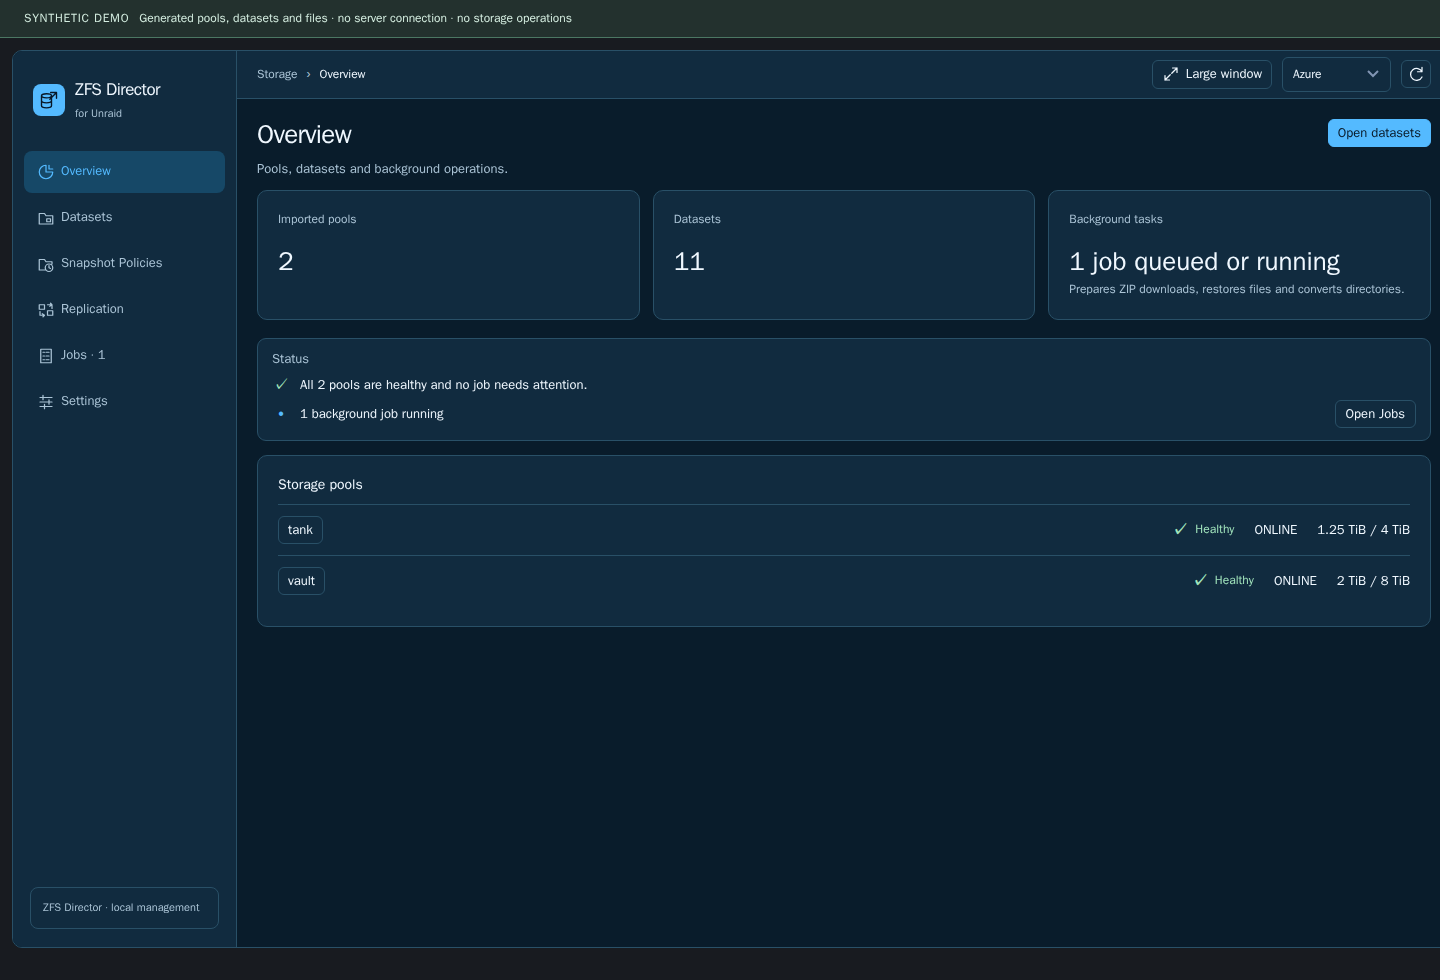
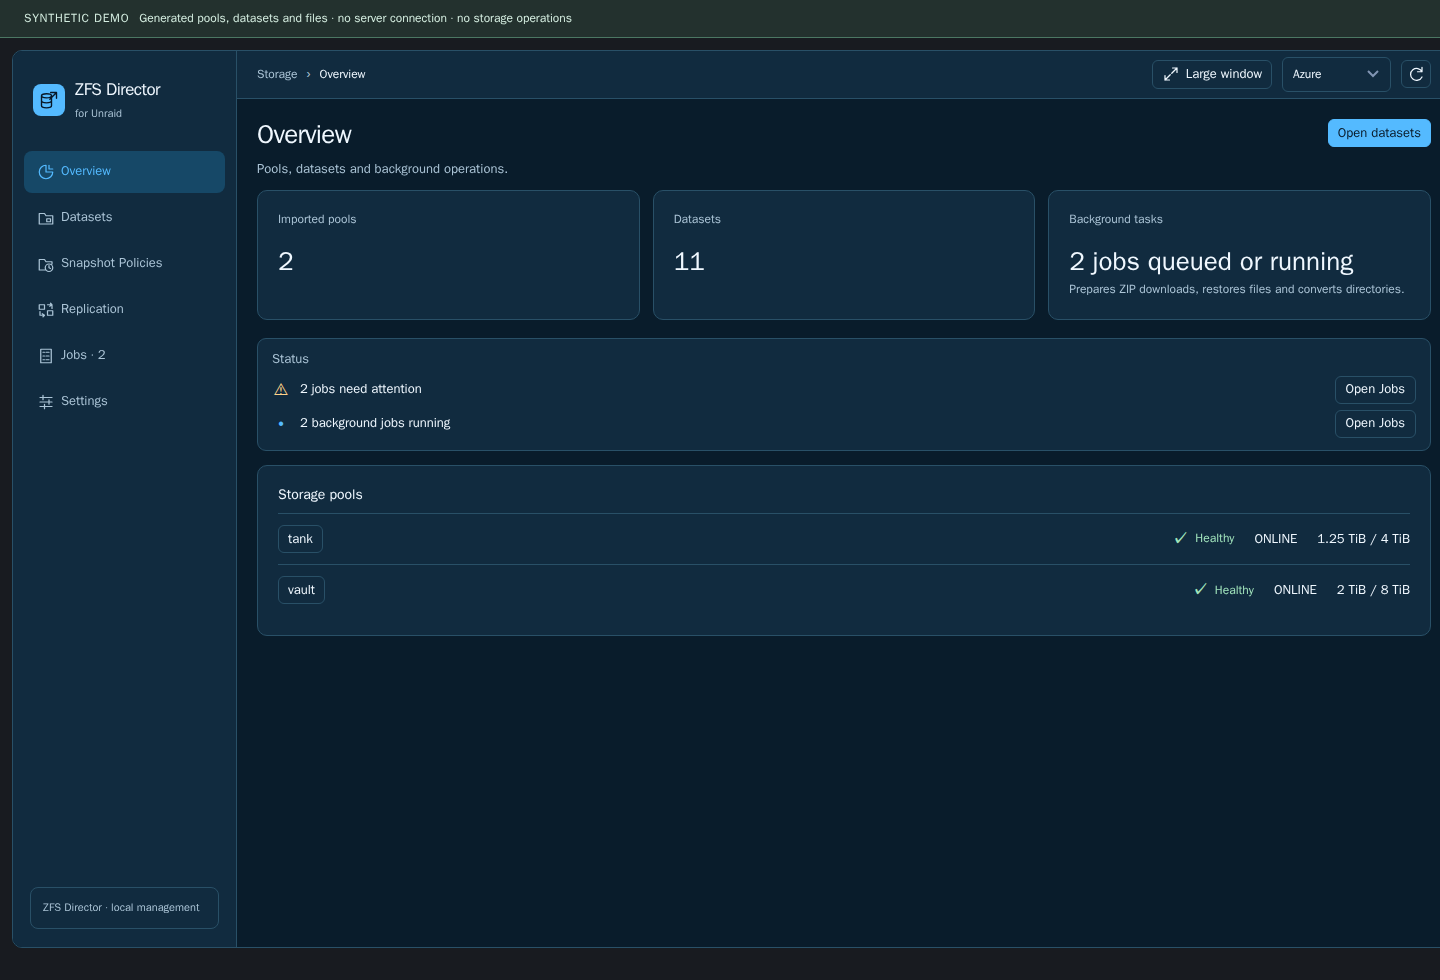
ux: Jobs cards name the process, its source and destination, how it started and how it ended (JOBS-003)
Titles read Replication, Snapshot policy, Conversion, Restore, ZIP, Delete dataset, Delete directory or Refused with the source and, where there is one, the destination. Replication and policy cards get a second line with the definition name and scheduled or manual run, and their status is in words (Running: sending data, Failed, Interrupted: check the destination). Unreadable journals are labelled as such. The error line no longer starts with Error. The Jobs demo data and screenshots follow the new scope and cards.

diff --git a/src/frontend/ZFSMWorkspace.js b/src/frontend/ZFSMWorkspace.js
@@ -641,6 +641,37 @@ function zfsmCreateWorkspace(options) {
         catch(error){if(scope!==JSON.stringify(jobRequestFields()))jobsPending=true;else jobsError='Job status unavailable. Retained results may be stale: '+error.message;}
         finally{jobsBusy=false;if(!stopped){if(!jobsError)renderOperation(jobs.operation);const running=Number(jobs.counts?.active)||0;sectionButtons.get('jobs').querySelector('.zfsm-nav-label').textContent='Jobs'+(running>0?' · '+running:'');renderJobs();if(section==='overview')renderSection();if(activeForm&&['cancelconversion','resumeconversion','cancelrestore'].includes(activeForm.action))forms.render(activeForm.host,activeForm.action,activeForm.context);explorer?.updateJobs?.(jobs.jobs);if(jobsPending){jobsPending=false;loadJobs();}else jobsTimer=setTimeout(loadJobs,2500);}}
     }
+    // JOBS-003: a card says what the process was, where it went and how it ended, in words.
+    const protectionStages={queued:'Waiting',inspecting:'Checking',transferring:'Sending data',finished:'Finished',cancelled:'Cancelled'};
+    function protectionStage(job){return protectionStages[job.stage]||String(job.stage||'').replace(/_/g,' ');}
+    function protectionStatusText(job){
+        if(job.diagnostics?.issue)return 'Needs inspection: the job record cannot be read';
+        if(job.state==='queued')return 'Waiting';
+        if(job.state==='running'){const stage=protectionStage(job).toLowerCase();return stage?'Running: '+stage:'Running';}
+        if(job.state==='completed')return '✓ Done';
+        if(job.state==='failed')return 'Failed';
+        if(job.state==='cancelled')return 'Cancelled';
+        if(job.state==='recovery_required')return 'Interrupted: check the '+(job.type==='replication'?'destination':'snapshots');
+        return String(job.state);
+    }
+    function jobTitleNode(job,requestOwned,requestLabel){
+        const title=node('strong');
+        if(requestOwned)title.append(requestLabel+' · '+(job.source||job.id)+(job.definition_name?' · '+job.definition_name:''));
+        else{
+            let kind,subject=job.source||job.id;
+            if(job.diagnostics?.issue)kind='Unreadable job';
+            else if(job.schema===4){kind=job.type==='replication'?'Replication':job.type==='policy'?'Snapshot policy':'Protection job';if(job.type==='replication'&&job.destination)subject=job.source+' → '+job.destination;}
+            else if(job.schema===5)kind='Refused: conversion';
+            else if(job.schema===6)kind=job.rejected?'Refused: deletion':job.kind==='directory'?'Delete directory':'Delete dataset';
+            else if(job.type==='restore'){kind='Restore';subject=(job.snapshot||job.source||job.id)+(job.target?' → '+job.target:'');}
+            else if(job.type==='archive'){kind='ZIP';subject=job.snapshot||job.source||job.id;}
+            else if(job.type==='conversion'){kind='Conversion';if(job.dataset&&job.source)subject=job.source+' → '+job.dataset;}
+            else kind='Job';
+            title.append(kind+' · '+subject);
+        }
+        if(job.schema===4){const line=[job.definition_name,job.trigger==='schedule'?'scheduled':job.trigger==='manual'?'manual run':null].filter(Boolean).join(' · ');if(line)title.append(node('small',line,'zfsm-job-subtitle'));}
+        return title;
+    }
     function renderJobs(){
         if(!jobsHost)return;
         
@@ -672,7 +703,7 @@ function zfsmCreateWorkspace(options) {
             const warning=requestOwned&&job.result?.severity==='warning'?{title:'Completed with warnings',summary:job.result.summary}:typeof zfsmProtectionJobWarning==='function'?zfsmProtectionJobWarning(job):null;
             const copiedPhase=job.type==='conversion'&&job.state==='running'&&!jobsError?(job.stage==='copying'&&job.progress?.stage==='verifying'?'Verifying files':({copy_verified:'Copy verified',claiming:'Retaining original',source_retained:'Verifying retained original',reserving:'Preparing mount location',reserved:'Mount location ready',mountpoint_pending:'Updating dataset mountpoint',publishing:'Mounting dataset',published:'Checking mounted dataset'}[job.stage]||'')):'';
             const requestLabel=job.command==='protectioncontrol'&&['enable','disable','remove'].includes(job.definition_action)?({enable:'Enable',disable:'Disable',remove:'Delete'})[job.definition_action]+' '+(job.category==='policy'?'snapshot policy':'replication task'):String(job.label||'Operation');
-            const isRestore=job.type==='restore',isArchive=job.type==='archive',isDeletion=job.type==='deletion',deletionStage=({planned:'Waiting to start',validating:'Checking target and protection',scanning:'Counting selected objects',deleting:job.kind==='directory'?'Deleting directory contents':'Deleting reviewed ZFS objects',verifying:'Verifying deletion',completed:'Completed',interrupted:'Inspection required',preflight_rejected:'Request refused',preflight_failed:'Safety check failed'})[(job.state==='running'?job.progress?.stage:null)||job.stage]||job.stage,row=node('div',undefined,'zfsm-job');row.dataset.jobId=job.id;row.append(node('strong',(requestOwned?requestLabel+' · ':isRestore?'Restore · ':isArchive?'ZIP · ':isDeletion?(job.kind==='directory'?'Delete directory · ':'Delete dataset · '):'')+(job.source||job.id)+(job.definition_name?' · '+job.definition_name:'')),node('div',warning?'⚠ '+warning.title:(job.state==='completed'?'✓ ':'')+(isDeletion||requestOwned?({queued:'Queued',running:'In progress',completed:'Completed',failed:'Failed',recovery_required:'Inspection required',cancelled:'Cancelled'})[job.state]:String(job.state))+((isDeletion&&job.state==='completed'||requestOwned&&!['queued','running'].includes(job.state)||(!copiedPhase&&!isDeletion&&!requestOwned&&String(job.stage).toLowerCase()===String(job.state).toLowerCase()))?'':' · '+(copiedPhase||(isDeletion?deletionStage:requestOwned?requestStage:String(job.stage)))),job.state==='completed'&&!warning?'zfsm-success':'zfsm-job-status'));
+            const isRestore=job.type==='restore',isArchive=job.type==='archive',isDeletion=job.type==='deletion',deletionStage=({planned:'Waiting to start',validating:'Checking target and protection',scanning:'Counting selected objects',deleting:job.kind==='directory'?'Deleting directory contents':'Deleting reviewed ZFS objects',verifying:'Verifying deletion',completed:'Completed',interrupted:'Inspection required',preflight_rejected:'Request refused',preflight_failed:'Safety check failed'})[(job.state==='running'?job.progress?.stage:null)||job.stage]||job.stage,row=node('div',undefined,'zfsm-job');row.dataset.jobId=job.id;row.append(jobTitleNode(job,requestOwned,requestLabel),node('div',warning?'⚠ '+warning.title:job.schema===4?protectionStatusText(job):(job.state==='completed'?'✓ ':'')+(isDeletion||requestOwned?({queued:'Queued',running:'In progress',completed:'Completed',failed:'Failed',recovery_required:'Inspection required',cancelled:'Cancelled'})[job.state]:String(job.state))+((isDeletion&&job.state==='completed'||requestOwned&&!['queued','running'].includes(job.state)||(!copiedPhase&&!isDeletion&&!requestOwned&&String(job.stage).toLowerCase()===String(job.state).toLowerCase()))?'':' · '+(copiedPhase||(isDeletion?deletionStage:requestOwned?requestStage:String(job.stage)))),job.state==='completed'&&!warning?'zfsm-success':'zfsm-job-status'));
             row.lastElementChild.setAttribute('role','status');row.lastElementChild.setAttribute('aria-label','Job '+job.id+' status');
             if(warning)row.lastElementChild.dataset.severity='warning';
             if(job.created)row.append(node('p','Queued: '+date(job.created),'zfsm-muted'));
@@ -687,10 +718,10 @@ function zfsmCreateWorkspace(options) {
                 if(job.result?.summary){const result=node('p',job.result.summary,'zfsm-notice');result.dataset.deletionResult='';result.setAttribute('role','status');row.append(result);}
             }else if(job.progress||copiedPhase){const progress=node('progress');progress.max=100;const measured=typeof job.progress?.percent==='number'&&Number.isFinite(job.progress.percent);if(copiedPhase||measured)progress.value=copiedPhase?100:Math.max(0,Math.min(100,job.progress.percent));progress.setAttribute('aria-label',isRestore?'Restore progress':isArchive?'ZIP progress':job.type==='download'?'Download progress':requestOwned?'Operation progress':job.type==='replication'?'Replication progress':job.type==='policy'?'Snapshot policy progress':'Conversion progress');if(copiedPhase)progress.setAttribute('aria-valuetext','Copying 100%; '+copiedPhase+'. Conversion is not finished.');
                 const detail=isRestore||isArchive||job.type==='download'?bytes(job.progress?.bytes)+' / '+bytes(job.bytes??job.progress?.total)+(job.progress?.current?' · '+job.progress.current:''):[job.progress?.rate,job.progress?.remaining].filter(value=>typeof value==='string'&&value.trim()).map(value=>value.trim()).join(' · ');
-                row.append(progress,node('span',copiedPhase?'Copying: 100% · '+copiedPhase+'…':[measured?progress.value+'%':(requestOwned?requestStage:String(job.stage))+'…',detail].filter(Boolean).join(' · '),'zfsm-muted'));}
-            else if(['queued','running'].includes(job.state)){const progress=node('progress');progress.setAttribute('aria-label',isRestore?'Restore progress':isArchive?'ZIP progress':requestOwned?'Operation progress':job.type==='replication'?'Replication progress':job.type==='policy'?'Snapshot policy progress':'Conversion progress');row.append(progress,node('span',job.state==='queued'?'Waiting to start…':'Working · '+(requestOwned?requestStage:job.stage)+' · percentage unavailable','zfsm-muted'));}
+                row.append(progress,node('span',copiedPhase?'Copying: 100% · '+copiedPhase+'…':[measured?progress.value+'%':(requestOwned?requestStage:job.schema===4?protectionStage(job):String(job.stage))+'…',detail].filter(Boolean).join(' · '),'zfsm-muted'));}
+            else if(['queued','running'].includes(job.state)){const progress=node('progress');progress.setAttribute('aria-label',isRestore?'Restore progress':isArchive?'ZIP progress':requestOwned?'Operation progress':job.type==='replication'?'Replication progress':job.type==='policy'?'Snapshot policy progress':'Conversion progress');row.append(progress,...(job.schema===4&&job.state==='running'?[]:[node('span',job.state==='queued'?'Waiting to start…':'Working · '+(requestOwned?requestStage:job.stage)+' · percentage unavailable','zfsm-muted')]));}
             if(requestOwned&&job.result?.summary){const result=node('p',job.result.summary,'zfsm-notice');result.dataset.operationResult='';result.setAttribute('role','status');row.append(result);}
-            for(const [key,label] of [['error','Error'],['target','Target'],...(isRestore&&job.state!=='completed'?[['staging','Copied files retained at']]:[])])if(job[key]){const message=node('p',label+': '+job[key],key==='error'?'zfsm-error':'zfsm-muted');if(key==='error')message.setAttribute('role','alert');row.append(message);}
+            for(const [key,label] of [['error','Error'],['target','Target'],...(isRestore&&job.state!=='completed'?[['staging','Copied files retained at']]:[])])if(job[key]){const message=node('p',key==='error'?String(job[key]):label+': '+job[key],key==='error'?'zfsm-error':'zfsm-muted');if(key==='error')message.setAttribute('role','alert');row.append(message);}
             if(job.recovery){const recovery=job.recovery,structured=typeof recovery==='object',location=structured?recovery.location:null;row.append(node('p',isDeletion?'Recovery journal'+(typeof location==='string'?': '+location:'')+'. This records the operation; deleted files are not saved.':structured?'Recovery information requires inspection. Open Technical diagnostics for the recorded details.':(isRestore?'Previous files retained at: ':'Retained original: ')+recovery,'zfsm-muted'));}
             const details=node('details'),summary=node('summary','Inspect job / recovery information');summary.setAttribute('aria-label','Inspect job '+job.id+' / recovery information');details.open=jobsExpanded.has(job.id);details.addEventListener('toggle',()=>{details.open?jobsExpanded.add(job.id):jobsExpanded.delete(job.id);});details.append(summary,node('h4','Stage history'));
             const history=Array.isArray(job.stage_history)?job.stage_history:[];

diff --git a/src/frontend/ZFSMWorkspace.css b/src/frontend/ZFSMWorkspace.css
@@ -195,6 +195,7 @@ html:has(#zfsm-workspace dialog[open]), html:has(#zfsm-workspace dialog[open]) b
 #zfsm-workspace details {margin:14px 0} #zfsm-workspace summary {cursor:pointer;color:var(--zfsm-accent)}
 #zfsm-workspace .zfsm-job {padding:14px 0;border-bottom:1px solid var(--zfsm-border);overflow-wrap:anywhere}
 #zfsm-workspace .zfsm-job strong {display:block;margin-bottom:5px}
+#zfsm-workspace .zfsm-job-subtitle {display:block;margin-top:2px;font-size:12px;font-weight:400;color:var(--zfsm-muted)}
 #zfsm-workspace .zfsm-job progress {display:block;width:100%;height:9px;margin:9px 0;accent-color:var(--zfsm-accent);border:0;background:var(--zfsm-track)}
 #zfsm-workspace .zfsm-form progress {display:block;width:100%;height:9px;margin:9px 0;accent-color:var(--zfsm-accent)}
 #zfsm-workspace .zfsm-job-feedback {grid-column:1 / -1;display:block;min-width:0;overflow-wrap:anywhere}

diff --git a/src/include/ZFSMJobs.php b/src/include/ZFSMJobs.php
@@ -301,6 +301,9 @@ function zfsmJobPresentation($job,$file,$worker_running,$problem=null) {
     $job['retained_data']=['source'=>$job['source']??null,'dataset'=>$job['dataset']??null,'recovery'=>$job['recovery']??null,'staging'=>$job['staging']??null,'hold_owned'=>!empty($job['hold_owned']),'message'=>$problem?'Retained data cannot be verified from this journal. Inspect the recorded paths and filesystem before manual recovery.':($job['type']==='conversion'?'The original source and any partial target are retained. Paths are journal records; verify actual data before manual recovery.':($archive?'ZIP staging and any snapshot protection remain owned by this job until automatic cleanup succeeds.':'Copied files and replaced originals are retained for inspection. Create a fresh restore preview after verifying actual files.'))];
     if(!$problem&&$archive&&!empty($job['archive_removed']))$job['retained_data']['message']=($job['cleanup_resolution']??null)==='owner_absent'?'The original dataset and snapshot GUIDs are absent from the imported pool, and the recorded ZIP path is absent. No files were deleted; stale ZIP cleanup bookkeeping was reconciled.':'The temporary ZIP archive has been removed. The original operation result and history are preserved.';
     if(!$problem&&!empty($job['cleanup_error'])){$cleanup_message='Cleanup pending: '.zfsmExplorerShortText($job['cleanup_error'],1500);$job['retained_data']['message'].=' '.$cleanup_message;$job['error']=(!empty($job['error'])?$job['error'].' ':'').$cleanup_message;}
+    // What the Jobs card shows: the definition's name and where a replication goes (user@host: for a remote one).
+    if(!$problem&&($job['schema']??null)===4){$def=is_array($job['definition']??null)?$job['definition']:[];$name=$def['name']??null;if(is_string($name)&&$name!==''&&strlen($name)<=200&&!preg_match('/[\x00-\x1f\x7f]/',$name))$job['definition_name']=$name;
+        $destination=is_string($job['target']??null)?$job['target']:null;if($destination!==null&&($def['mode']??'local')==='remote'&&is_string($def['user']??null)&&is_string($def['host']??null))$destination=$def['user'].'@'.$def['host'].':'.$destination;$job['destination']=$destination;}
     if(!$problem&&($job['schema']??null)===4)$job['retained_data']=['source'=>$job['source'],'target'=>$job['target'],'message'=>'Protection jobs do not remove destination data. Inspect verified outcome and any partial receive before retrying.'];
     if(!$problem&&function_exists('zfsmProtectionBlockedBeforeStart')&&zfsmProtectionBlockedBeforeStart($job)){try{$marker=zfsmProtectionBlockedMarker($job['type'],$job['definition_id']);if($marker!==null&&$marker['job_id']===$job['id']&&$marker['repeats']>0)$job['repeats']=['count'=>$marker['repeats'],'last_seen'=>$marker['last_seen']??null];}catch(Throwable$error){}}
     if(!$problem&&($job['schema']??null)===5){$job['actions']=['cancel'=>false,'resume'=>false,'download'=>false,'inspect'=>true];$job['retained_data']=['source'=>$job['source'],'message'=>'Conversion was rejected before it started. No data was copied or moved; no recovery directory was created by this attempt. Review the cause, then submit a new request.'];}
